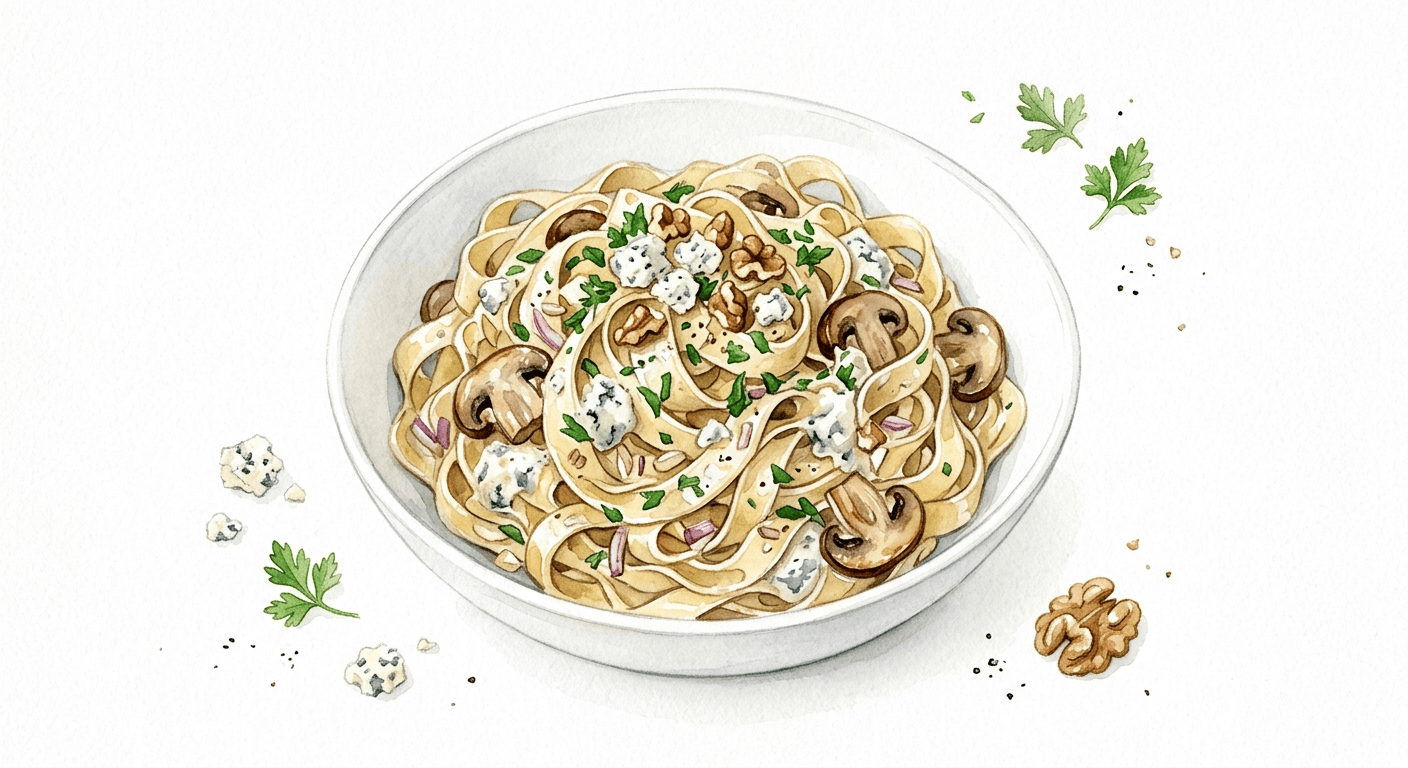
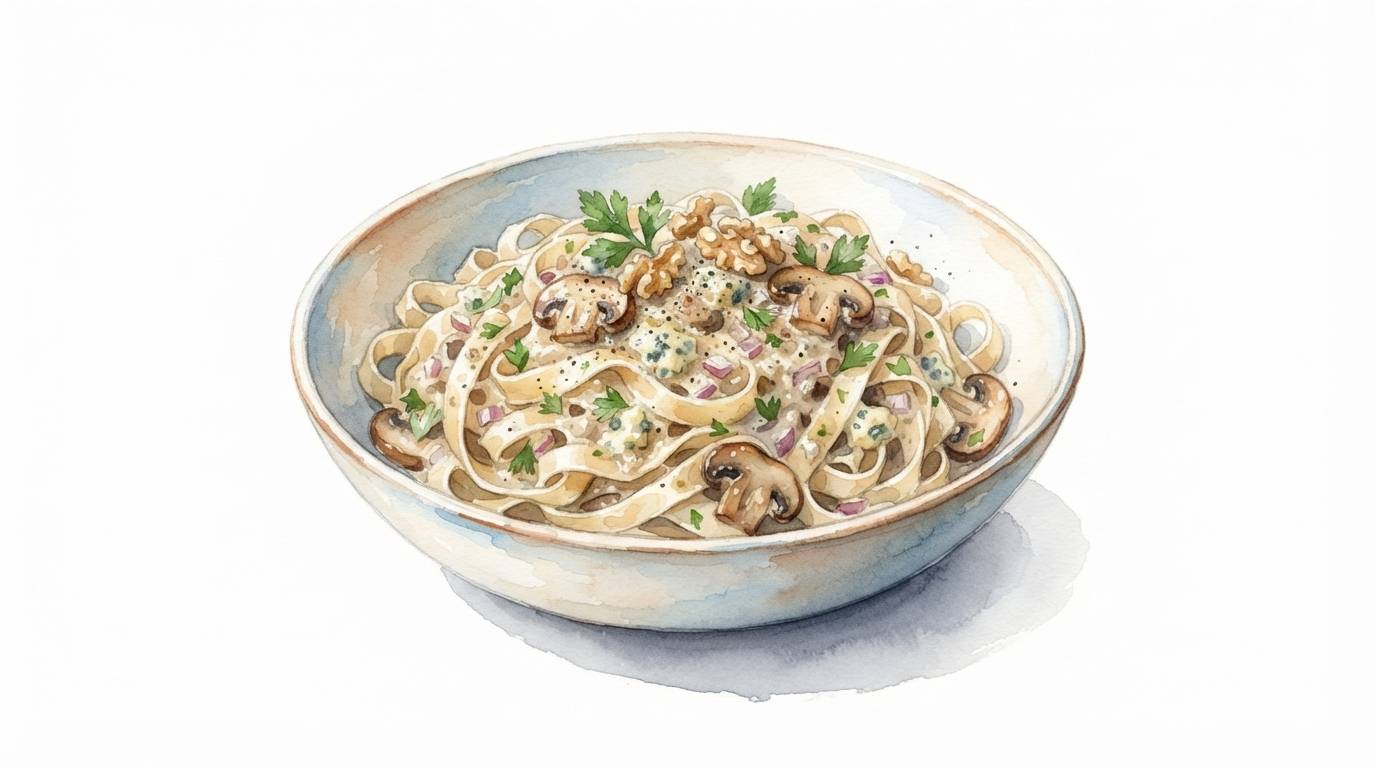
Replace pasta-blauwe-kaas hero to remove scattered garnish (#171)
* Replace pasta-blauwe-kaas hero to remove scattered garnish

The previous hero had loose blue cheese chunks, parsley leaves, a
walnut, and pepper flecks floating around the bowl on the background.
New art keeps the dish alone in its bowl, matching the rest of the
hero-illustration style audit.

* Regenerate pastinaaksoep hero at full resolution

Replaces the earlier low-res (512x286) hero with a 1376x768 version
matching the book's hero-illustration convention, same clean
bowl-alone composition.

* Add ingredients margin illustration for spinazie-quiche

Part of the hero-illustration style audit fix for spinazie-quiche —
the existing hero still has scattered bowls of ingredients around the
quiche (spinach, onion/garlic, egg mix, cheese, whisk, grater,
nutmeg), which the new ingredients margin image now covers instead.

* Replace spinazie-quiche hero to remove scattered ingredients

The previous hero had bowls of spinach, chopped onion/garlic, egg
mixture, grated cheese, a whisk, a cheese grater, and nutmeg scattered
around the quiche. New art keeps the dish alone, with a cut slice
showing the greener spinach filling and layers.

* Replace bloemkoolquiche hero to remove scattered ingredients

The previous hero had a whole cauliflower, a bowl of bacon strips, an
egg wash with whisk, grated cheese, and thyme sprigs scattered around
the quiche. New art keeps the dish alone with a cut slice showing the
filling.

* Add ingredients margin illustration for pasta-scarpariello
[…]

diff --git a/recipes/spinazie-quiche.tex b/recipes/spinazie-quiche.tex
@@ -5,6 +5,7 @@
 \index[register]{Zongedroogde tomaten}
 
 \meta{85 minuten \dvd Oven 200\,°C}
+\marginimage{images/spinazie-quiche-ingredienten}
 
 \lettrine{E}{en} quiche met een vulling van spinazie, zongedroogde tomaten en crème
 fraîche. Reken op een halfuur rusttijd voor het deeg voor je kunt beginnen.

diff --git a/recipes/pasta-scarpariello.tex b/recipes/pasta-scarpariello.tex
@@ -6,6 +6,7 @@
 \index[register]{Spaghetti}
 
 \meta{25 minuten}
+\marginimage{images/pasta-scarpariello-ingredienten}
 
 \lettrine{S}{carpariello} is een Napolitaanse techniek waarbij cherry tomaatjes op laag
 vuur langzaam in olijfolie opengaan. Het sap mengt zich met de olie tot een lichte,
